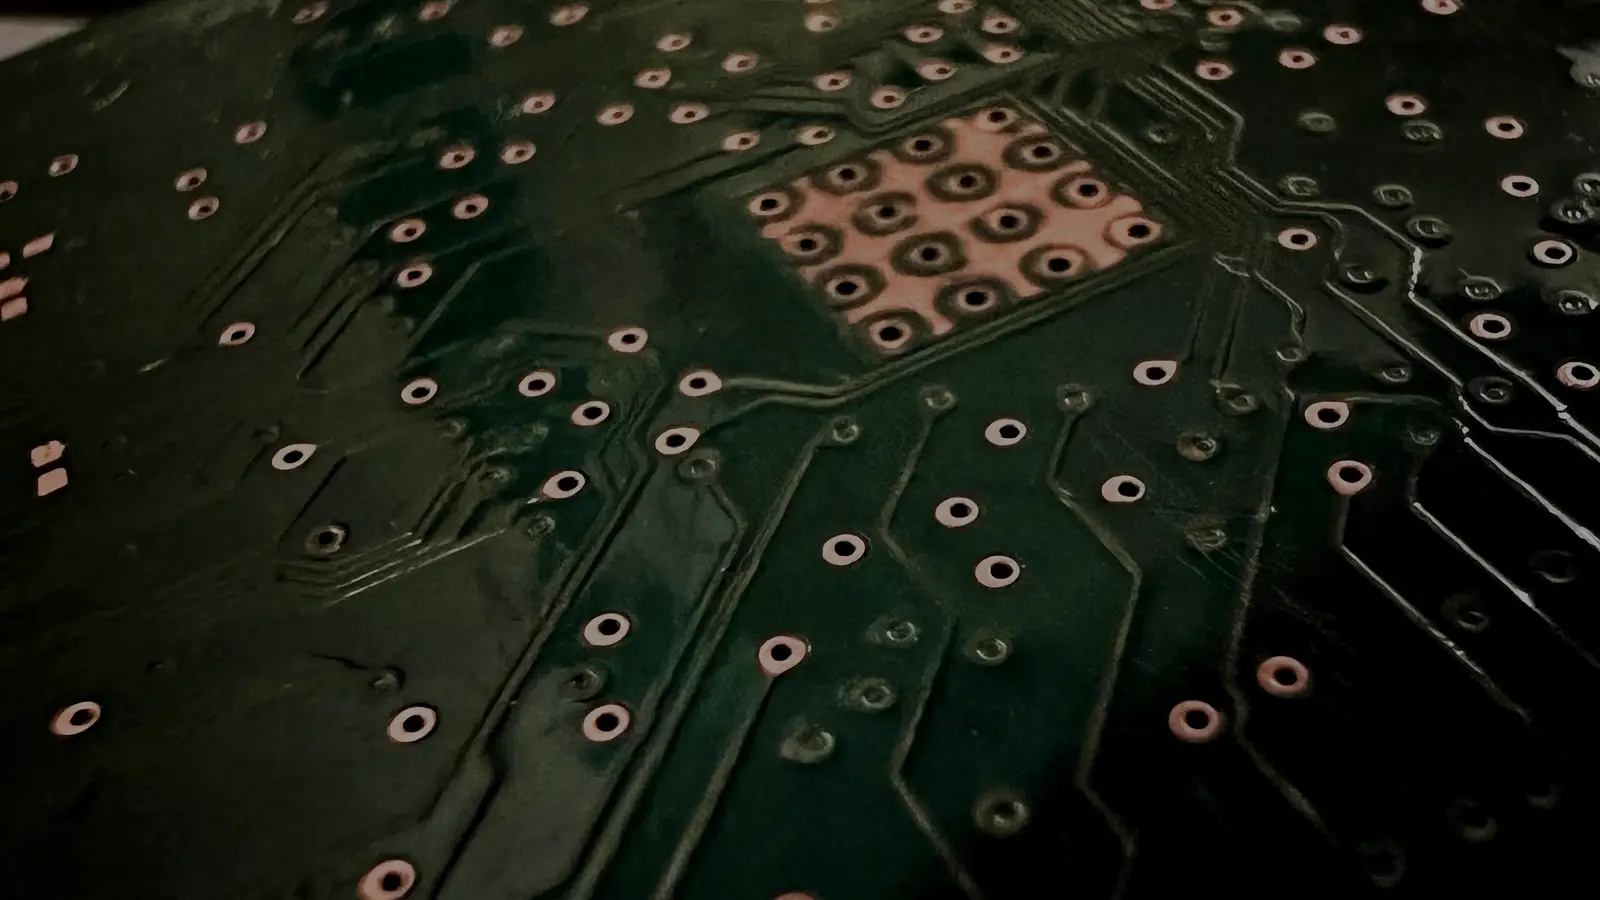
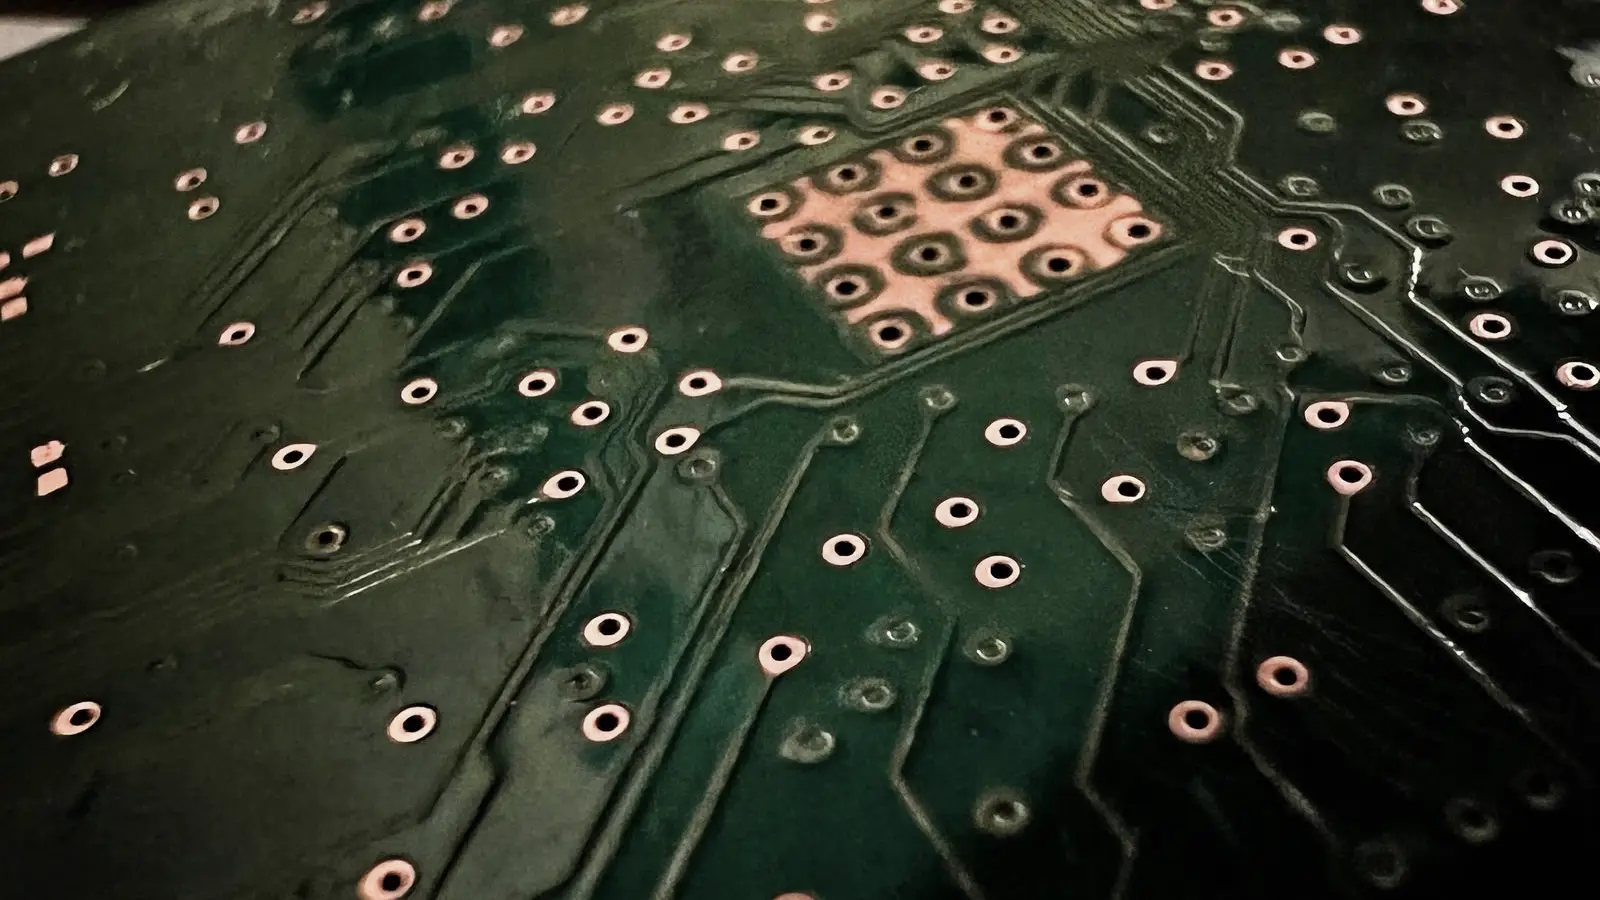
Palette to teal-green, brighter section photos, serious hero, less Google
- Accent recolored from amber to a muted teal-green across the site, icons
  and favicon; Critical-severity badges now render red.
- Section photos brighter + higher opacity and a lighter overlay so the
  imagery is actually visible while text stays legible.
- More serious hero line; stats reworked to drop heavy Google emphasis and
  surface the highest severity and platform breadth.
- Findings reordered; add a further finding card with its honest
  "Reported · in triage" status; move one card to the additional-reports
  list.

diff --git a/src/styles/global.css b/src/styles/global.css
@@ -4,11 +4,11 @@
 @theme {
   --font-sans: 'Inter Variable', ui-sans-serif, system-ui, sans-serif;
   --font-mono: 'JetBrains Mono', ui-monospace, 'Cascadia Code', monospace;
-  --color-accent: #fbbf24;
+  --color-accent: #34d399;
 }
 
 ::selection {
-  background-color: #fbbf24;
+  background-color: #34d399;
   color: #09090b;
 }
 
@@ -108,9 +108,9 @@ html {
   }
 }
 
-/* Soft amber glow used behind hero / featured sections */
+/* Soft accent glow used behind hero / featured sections */
 .glow {
-  background: radial-gradient(ellipse 60% 50% at 50% 0%, rgb(251 191 36 / 0.08), transparent 70%);
+  background: radial-gradient(ellipse 60% 50% at 50% 0%, rgb(52 211 153 / 0.08), transparent 70%);
 }
 
 /* ---------------------------------------------------------------------------
@@ -136,7 +136,8 @@ html {
   will-change: transform;
 }
 
-/* Fade the image into the zinc background at the top and bottom edges. */
+/* Fade the image into the zinc background at the top and bottom edges, while
+   keeping the middle band light enough that the photo is clearly visible. */
 .section-photo::after {
   content: '';
   position: absolute;
@@ -144,8 +145,8 @@ html {
   background: linear-gradient(
     180deg,
     #09090b 0%,
-    rgb(9 9 11 / 0.6) 40%,
-    rgb(9 9 11 / 0.6) 60%,
+    rgb(9 9 11 / 0.28) 35%,
+    rgb(9 9 11 / 0.28) 65%,
     #09090b 100%
   );
 }
